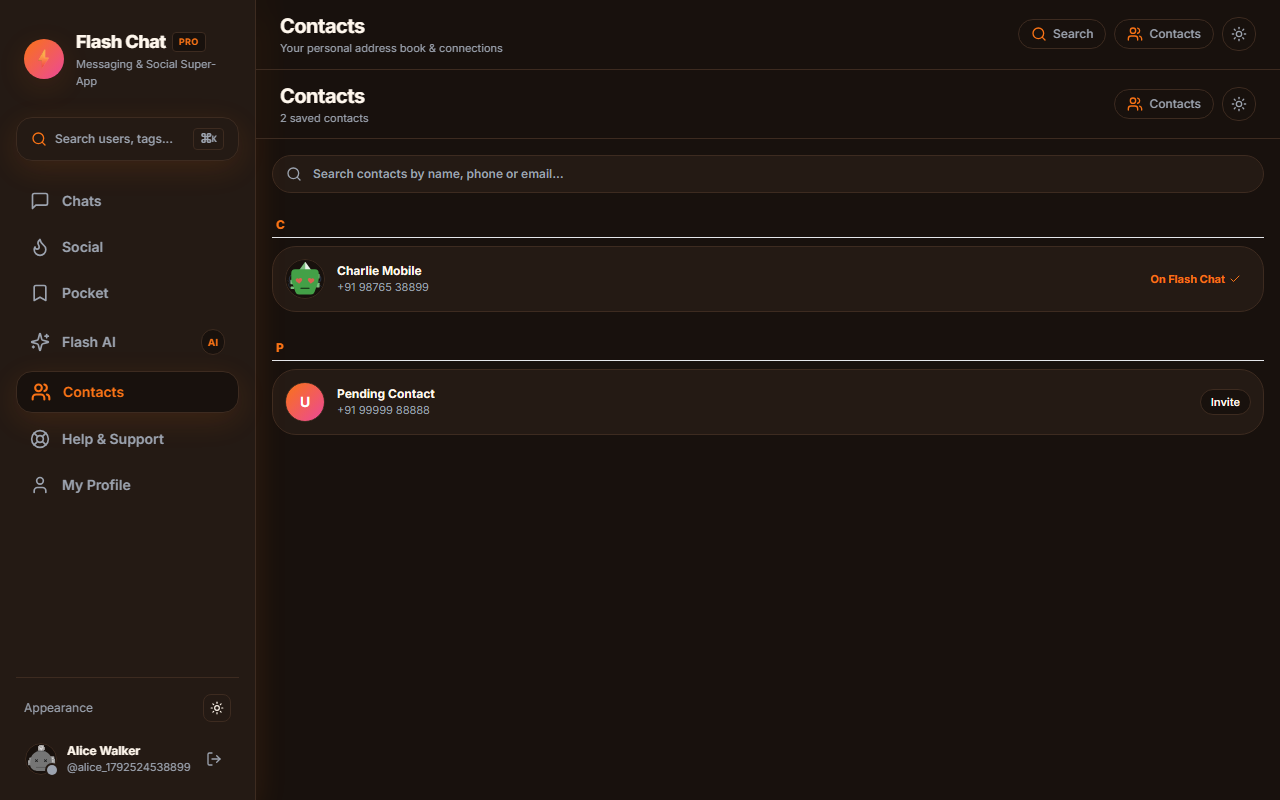
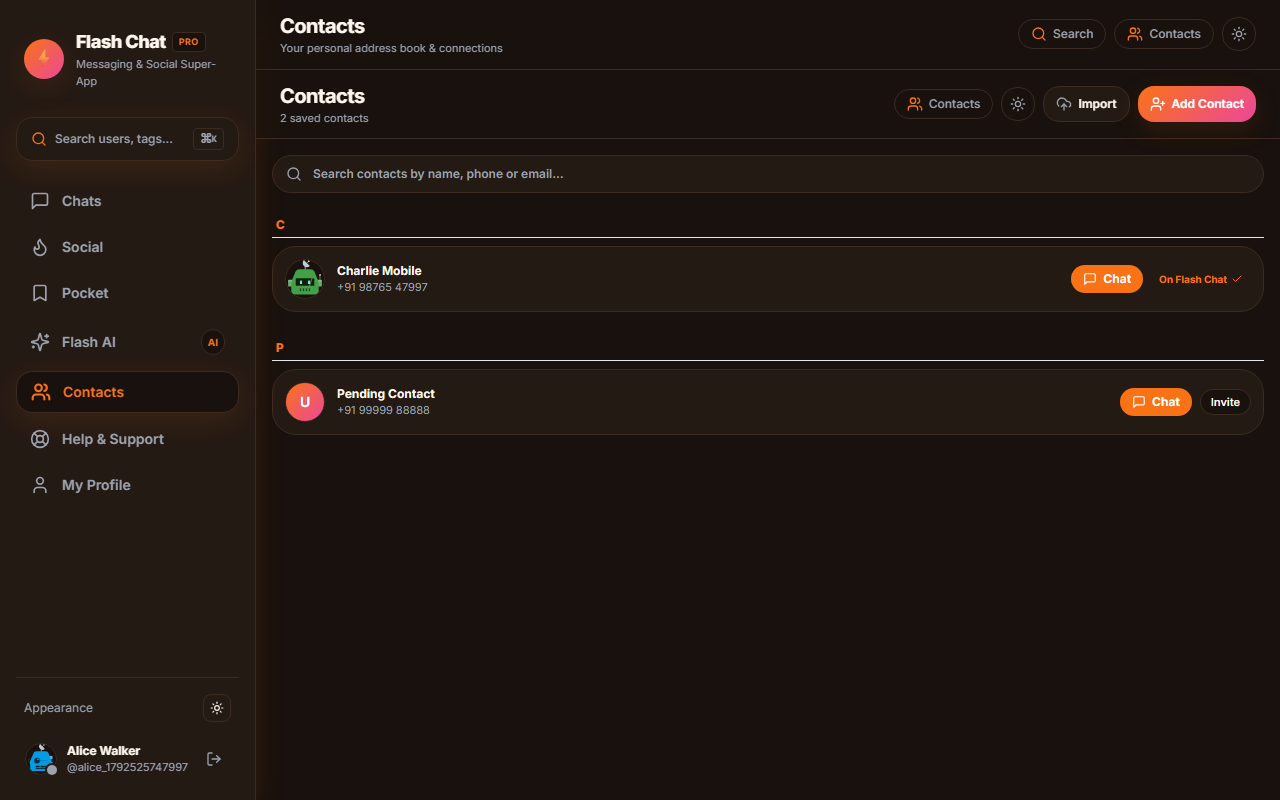
add contact management components and end-to-end test reports

diff --git a/client/src/features/contacts/ContactDetailModal.jsx b/client/src/features/contacts/ContactDetailModal.jsx
@@ -168,20 +168,21 @@ export const ContactDetailModal = ({
 
           {/* Quick Action Buttons (Horizontal Scrollable) */}
           <div className="flex items-center gap-2.5 mt-4 w-full overflow-x-auto pb-1.5 scrollbar-thin snap-x">
+            <button
+              type="button"
+              onClick={handleMessage}
+              className="flex flex-col items-center gap-1 p-2.5 min-w-[80px] rounded-xl bg-card border border-line hover:border-primary/50 text-ink text-xs font-semibold flex-1 transition shadow-xs snap-start shrink-0 cursor-pointer"
+            >
+              <MessageSquare className="w-5 h-5 text-primary" />
+              <span>Message</span>
+            </button>
+
             {isLinked ? (
               <>
                 <button
                   type="button"
-                  onClick={handleMessage}
-                  className="flex flex-col items-center gap-1 p-2.5 min-w-[80px] rounded-xl bg-card border border-line hover:border-primary/50 text-ink text-xs font-semibold flex-1 transition shadow-xs snap-start shrink-0"
-                >
-                  <MessageSquare className="w-5 h-5 text-primary" />
-                  <span>Message</span>
-                </button>
-                <button
-                  type="button"
                   onClick={() => handleStartCall('audio')}
-                  className="flex flex-col items-center gap-1 p-2.5 min-w-[80px] rounded-xl bg-card border border-line hover:border-primary/50 text-ink text-xs font-semibold flex-1 transition shadow-xs snap-start shrink-0"
+                  className="flex flex-col items-center gap-1 p-2.5 min-w-[80px] rounded-xl bg-card border border-line hover:border-primary/50 text-ink text-xs font-semibold flex-1 transition shadow-xs snap-start shrink-0 cursor-pointer"
                 >
                   <Phone className="w-5 h-5 text-primary" />
                   <span>Audio Call</span>
@@ -189,7 +190,7 @@ export const ContactDetailModal = ({
                 <button
                   type="button"
                   onClick={() => handleStartCall('video')}
-                  className="flex flex-col items-center gap-1 p-2.5 min-w-[80px] rounded-xl bg-card border border-line hover:border-primary/50 text-ink text-xs font-semibold flex-1 transition shadow-xs snap-start shrink-0"
+                  className="flex flex-col items-center gap-1 p-2.5 min-w-[80px] rounded-xl bg-card border border-line hover:border-primary/50 text-ink text-xs font-semibold flex-1 transition shadow-xs snap-start shrink-0 cursor-pointer"
                 >
                   <Video className="w-5 h-5 text-secondary" />
                   <span>Video Call</span>
@@ -201,7 +202,7 @@ export const ContactDetailModal = ({
                   type="button"
                   onClick={() => handleInvite('sms')}
                   disabled={isInviting || !contact.phone}
-                  className="flex flex-col items-center gap-1 p-2.5 min-w-[100px] rounded-xl bg-card border border-line hover:border-primary/50 text-ink text-xs font-semibold flex-1 transition disabled:opacity-50 shadow-xs snap-start shrink-0"
+                  className="flex flex-col items-center gap-1 p-2.5 min-w-[100px] rounded-xl bg-card border border-line hover:border-primary/50 text-ink text-xs font-semibold flex-1 transition disabled:opacity-50 shadow-xs snap-start shrink-0 cursor-pointer"
                 >
                   <Send className="w-5 h-5 text-primary" />
                   <span>Invite SMS</span>
@@ -209,7 +210,7 @@ export const ContactDetailModal = ({
                 <button
                   type="button"
                   onClick={handleShareLink}
-                  className="flex flex-col items-center gap-1 p-2.5 min-w-[100px] rounded-xl bg-card border border-line hover:border-primary/50 text-ink text-xs font-semibold flex-1 transition shadow-xs snap-start shrink-0"
+                  className="flex flex-col items-center gap-1 p-2.5 min-w-[100px] rounded-xl bg-card border border-line hover:border-primary/50 text-ink text-xs font-semibold flex-1 transition shadow-xs snap-start shrink-0 cursor-pointer"
                 >
                   {copiedLink ? <Check className="w-5 h-5 text-primary" /> : <Share2 className="w-5 h-5 text-secondary" />}
                   <span>{copiedLink ? 'Copied!' : 'Share Link'}</span>

diff --git a/client/src/features/contacts/ContactList.jsx b/client/src/features/contacts/ContactList.jsx
@@ -11,7 +11,8 @@ import {
   Send,
   AlertCircle,
   RefreshCw,
-  Sparkles
+  Sparkles,
+  MessageSquare
 } from 'lucide-react';
 import { Avatar } from '../../components/Avatar';
 import { Skeleton } from '../../components/Skeleton';
@@ -27,6 +28,7 @@ export const ContactList = ({
   error = null,
   onRetry,
   onSelectContact,
+  onMessageContact,
   onAddContact,
   onInviteContact
 }) => {
@@ -167,6 +169,7 @@ export const ContactList = ({
                       key={contact._id}
                       contact={contact}
                       onSelect={() => onSelectContact && onSelectContact(contact)}
+                      onMessage={() => onMessageContact && onMessageContact(contact)}
                       onInvite={(e) => {
                         e.stopPropagation();
                         if (onInviteContact) onInviteContact(contact);
@@ -193,6 +196,7 @@ export const ContactList = ({
                       key={contact._id}
                       contact={contact}
                       onSelect={() => onSelectContact && onSelectContact(contact)}
+                      onMessage={() => onMessageContact && onMessageContact(contact)}
                       onInvite={(e) => {
                         e.stopPropagation();
                         if (onInviteContact) onInviteContact(contact);
@@ -238,7 +242,7 @@ export const ContactList = ({
   );
 };
 
-const ContactRow = ({ contact, onSelect, onInvite }) => {
+const ContactRow = ({ contact, onSelect, onMessage, onInvite }) => {
   const isLinked = Boolean(contact.linkedUser);
   const subtitle = [
     contact.phone ? formatDisplayPhone(contact.phone) : null,
@@ -275,8 +279,23 @@ const ContactRow = ({ contact, onSelect, onInvite }) => {
       </div>
 
       <div className="flex items-center gap-2 shrink-0">
+        {onMessage && (
+          <button
+            type="button"
+            onClick={(e) => {
+              e.stopPropagation();
+              onMessage(contact);
+            }}
+            className="px-3 py-1.5 rounded-xl bg-primary text-white hover:bg-primary/90 text-xs font-bold flex items-center gap-1.5 shadow-xs transition active:scale-95 cursor-pointer"
+            title="Chat with contact"
+          >
+            <MessageSquare className="w-3.5 h-3.5" />
+            <span>Chat</span>
+          </button>
+        )}
+
         {isLinked ? (
-          <span className="px-2.5 py-1 rounded-full bg-primary/15 text-primary text-[11px] font-bold flex items-center gap-1">
+          <span className="hidden sm:inline-flex px-2 py-1 rounded-full bg-primary/15 text-primary text-[10px] font-bold items-center gap-1">
             <span>On Flash Chat</span>
             <Check className="w-3 h-3" />
           </span>
@@ -284,7 +303,7 @@ const ContactRow = ({ contact, onSelect, onInvite }) => {
           <button
             type="button"
             onClick={onInvite}
-            className="px-2.5 py-1 rounded-full bg-cream border border-line hover:border-primary text-ink text-[11px] font-semibold transition"
+            className="px-2.5 py-1 rounded-full bg-cream border border-line hover:border-primary text-ink text-[11px] font-semibold transition cursor-pointer"
           >
             Invite
           </button>

diff --git a/client/src/components/chat/NewChatModal.jsx b/client/src/components/chat/NewChatModal.jsx
@@ -1,4 +1,5 @@
 import React, { useState, useEffect, useMemo } from 'react';
+import { useNavigate } from 'react-router-dom';
 import { Search, Users, User, UserPlus, ChevronRight, Check, X, Sparkles, BookUser, Phone } from 'lucide-react';
 import { Modal } from '../Modal';
 import { Avatar } from '../Avatar';
@@ -31,8 +32,9 @@ export const NewChatModal = ({ isOpen, onClose, onChatCreated }) => {
   const [selectedUserIds, setSelectedUserIds] = useState([]);
   const [isCreatingGroup, setIsCreatingGroup] = useState(false);
 
+  const navigate = useNavigate();
   const { startDirectConversation, createGroup } = useChatStore();
-  const { contacts, fetchContacts } = useContactsStore();
+  const { contacts, fetchContacts, startChatWithContact } = useContactsStore();
 
   useEffect(() => {
     if (isOpen) {
@@ -92,6 +94,37 @@ export const NewChatModal = ({ isOpen, onClose, onChatCreated }) => {
       if (onChatCreated) onChatCreated(conv);
     } catch (err) {
       alert(err.message || 'Failed to start chat');
+    }
+  };
+
+  const handleContactClick = async (c) => {
+    const isLinked = Boolean(c.linkedUser);
+    const uId = c.linkedUser?._id || c.linkedUser;
+    if (isLinked && uId) {
+      return handleStartDirect(uId);
+    }
+
+    try {
+      setIsLoading(true);
+      const conv = await startChatWithContact(c._id);
+      onClose();
+      if (conv?._id) {
+        if (onChatCreated) onChatCreated(conv);
+        else navigate(`/chats/${conv._id}`);
+      } else if (conv?.conversationId) {
+        if (onChatCreated) onChatCreated({ _id: conv.conversationId });
+        else navigate(`/chats/${conv.conversationId}`);
+      } else {
+        navigate('/chats');
+      }
+    } catch (err) {
+      if (c.phone) {
+        handleStartPhoneChat(c.phone);
+      } else {
+        alert(err.response?.data?.message || err.message || 'Could not start chat');
+      }
+    } finally {
+      setIsLoading(false);
     }
   };
 
@@ -265,17 +298,10 @@ export const NewChatModal = ({ isOpen, onClose, onChatCreated }) => {
                     </p>
                     {sortedContacts.map((c) => {
                       const isLinked = Boolean(c.linkedUser);
-                      const uId = c.linkedUser?._id || c.linkedUser;
                       return (
                         <div
                           key={c._id}
-                          onClick={() => {
-                            if (isLinked) {
-                              handleStartDirect(uId);
-                            } else if (c.phone) {
-                              handleStartPhoneChat(c.phone);
-                            }
-                          }}
+                          onClick={() => handleContactClick(c)}
                           className="flex items-center justify-between p-2.5 rounded-xl hover:bg-orange-50/40 transition cursor-pointer border border-transparent hover:border-line"
                         >
                           <div className="flex items-center gap-2.5 min-w-0">

diff --git a/client/src/features/contacts/ContactsPage.jsx b/client/src/features/contacts/ContactsPage.jsx
@@ -1,4 +1,5 @@
 import React, { useState, useEffect } from 'react';
+import { useNavigate } from 'react-router-dom';
 import { UserPlus, UploadCloud, Undo2, Plus, Sparkles } from 'lucide-react';
 import { PageHeader } from '../../components/PageHeader';
 import { Button } from '../../components/Button';
@@ -9,7 +10,8 @@ import { ContactImportModal } from './ContactImportModal';
 import { useContactsStore } from './useContacts';
 
 export const ContactsPage = () => {
-  const { contacts, isLoading, error, fetchContacts, restoreContact } = useContactsStore();
+  const navigate = useNavigate();
+  const { contacts, isLoading, error, fetchContacts, restoreContact, startChatWithContact } = useContactsStore();
 
   const [isAddOpen, setIsAddOpen] = useState(false);
   const [isImportOpen, setIsImportOpen] = useState(false);
@@ -39,6 +41,21 @@ export const ContactsPage = () => {
       await restoreContact(undoToast.contact);
       setUndoToast(null);
     } catch (_) {}
+  };
+
+  const handleMessageContact = async (contact) => {
+    try {
+      const conv = await startChatWithContact(contact._id);
+      if (conv?._id) {
+        navigate(`/chats/${conv._id}`);
+      } else if (conv?.conversationId) {
+        navigate(`/chats/${conv.conversationId}`);
+      } else if (conv?.status === 'pending' || conv?.pendingId) {
+        navigate('/chats');
+      }
+    } catch (err) {
+      alert(err.response?.data?.message || 'Failed to start chat');
+    }
   };
 
   return (
@@ -80,6 +97,7 @@ export const ContactsPage = () => {
           error={error}
           onRetry={fetchContacts}
           onSelectContact={(c) => setSelectedContact(c)}
+          onMessageContact={handleMessageContact}
           onAddContact={() => {
             setContactToEdit(null);
             setIsAddOpen(true);
@@ -102,7 +120,7 @@ export const ContactsPage = () => {
             setContactToEdit(null);
             setIsAddOpen(true);
           }}
-          className="pointer-events-auto w-14 h-14 rounded-full bg-brand text-white shadow-xl shadow-primary/30 flex items-center justify-center hover:scale-105 active:scale-95 transition-transform duration-200 focus:outline-none focus:ring-4 focus:ring-primary/40 cursor-pointer"
+          className="pointer-events-auto w-14 h-14 rounded-full bg-brand-gradient hover:opacity-95 text-white shadow-xl shadow-primary/30 flex items-center justify-center hover:scale-105 active:scale-95 transition-transform duration-200 focus:outline-none focus:ring-4 focus:ring-primary/40 cursor-pointer"
         >
           <Plus className="w-7 h-7 stroke-[2.5px]" />
         </button>

diff --git a/client/src/components/chat/ConversationList.jsx b/client/src/components/chat/ConversationList.jsx
@@ -227,7 +227,7 @@ export const ConversationList = ({
                   type="button"
                   aria-label="New message options"
                   onClick={() => setShowPlusMenu(!showPlusMenu)}
-                  className="p-1.5 rounded-xl bg-brand text-white shadow-md shadow-primary/25 hover:brightness-105 transition cursor-pointer"
+                  className="p-1.5 rounded-xl bg-brand-gradient hover:opacity-95 text-white shadow-md shadow-primary/25 transition cursor-pointer"
                   title="New chat options"
                 >
                   <Plus className="w-4 h-4 stroke-[2.5px]" />
@@ -430,6 +430,28 @@ export const ConversationList = ({
               <p className="text-[11px]">Start a new chat to begin messaging.</p>
             </div>
           ) : null}
+        </div>
+      )}
+
+      {/* WhatsApp-style Floating Action Button (FAB) for New Chat / Add Contact */}
+      {activeSection === 'chats' && (
+        <div
+          className="fixed md:absolute right-5 md:right-6 z-30 pointer-events-none"
+          style={{
+            bottom: 'calc(5.25rem + env(safe-area-inset-bottom, 0px))'
+          }}
+        >
+          <button
+            type="button"
+            aria-label="New chat or contact"
+            onClick={() => {
+              if (onOpenNewChat) onOpenNewChat('direct');
+            }}
+            className="pointer-events-auto w-14 h-14 rounded-full bg-brand-gradient hover:opacity-95 text-white shadow-xl shadow-primary/30 flex items-center justify-center hover:scale-105 active:scale-95 transition-transform duration-200 focus:outline-none focus:ring-4 focus:ring-primary/40 cursor-pointer"
+            title="Start new chat or add contact"
+          >
+            <MessageSquare className="w-6 h-6 stroke-[2.2px]" />
+          </button>
         </div>
       )}
 

diff --git a/client/src/components/PageHeader.jsx b/client/src/components/PageHeader.jsx
@@ -5,7 +5,7 @@ import { useThemeStore } from '../store/useThemeStore';
 import { useAuthStore } from '../store/useAuthStore';
 import { Avatar } from './Avatar';
 
-export const PageHeader = ({ title, subtitle, onOpenSearch, rightAction }) => {
+export const PageHeader = ({ title, subtitle, onOpenSearch, rightAction, actions }) => {
   const { theme, toggleTheme } = useThemeStore();
   const { user } = useAuthStore();
   const navigate = useNavigate();
@@ -67,7 +67,7 @@ export const PageHeader = ({ title, subtitle, onOpenSearch, rightAction }) => {
           {theme === 'dark' ? <Sun className="w-4 h-4" /> : <Moon className="w-4 h-4" />}
         </button>
 
-        {rightAction}
+        {rightAction || actions}
 
         <div className="md:hidden cursor-pointer" onClick={() => navigate('/profile')}>
           <Avatar src={user?.avatar} alt={user?.name} size="xs" />

diff --git a/client/tailwind.config.js b/client/tailwind.config.js
@@ -17,6 +17,7 @@ export default {
         muted: 'var(--muted)',
         line: 'var(--line)',
         brand: {
+          DEFAULT: 'var(--primary)',
           orange: '#F97316',
           pink: '#EC4899',
           rose: '#F43F5E',
